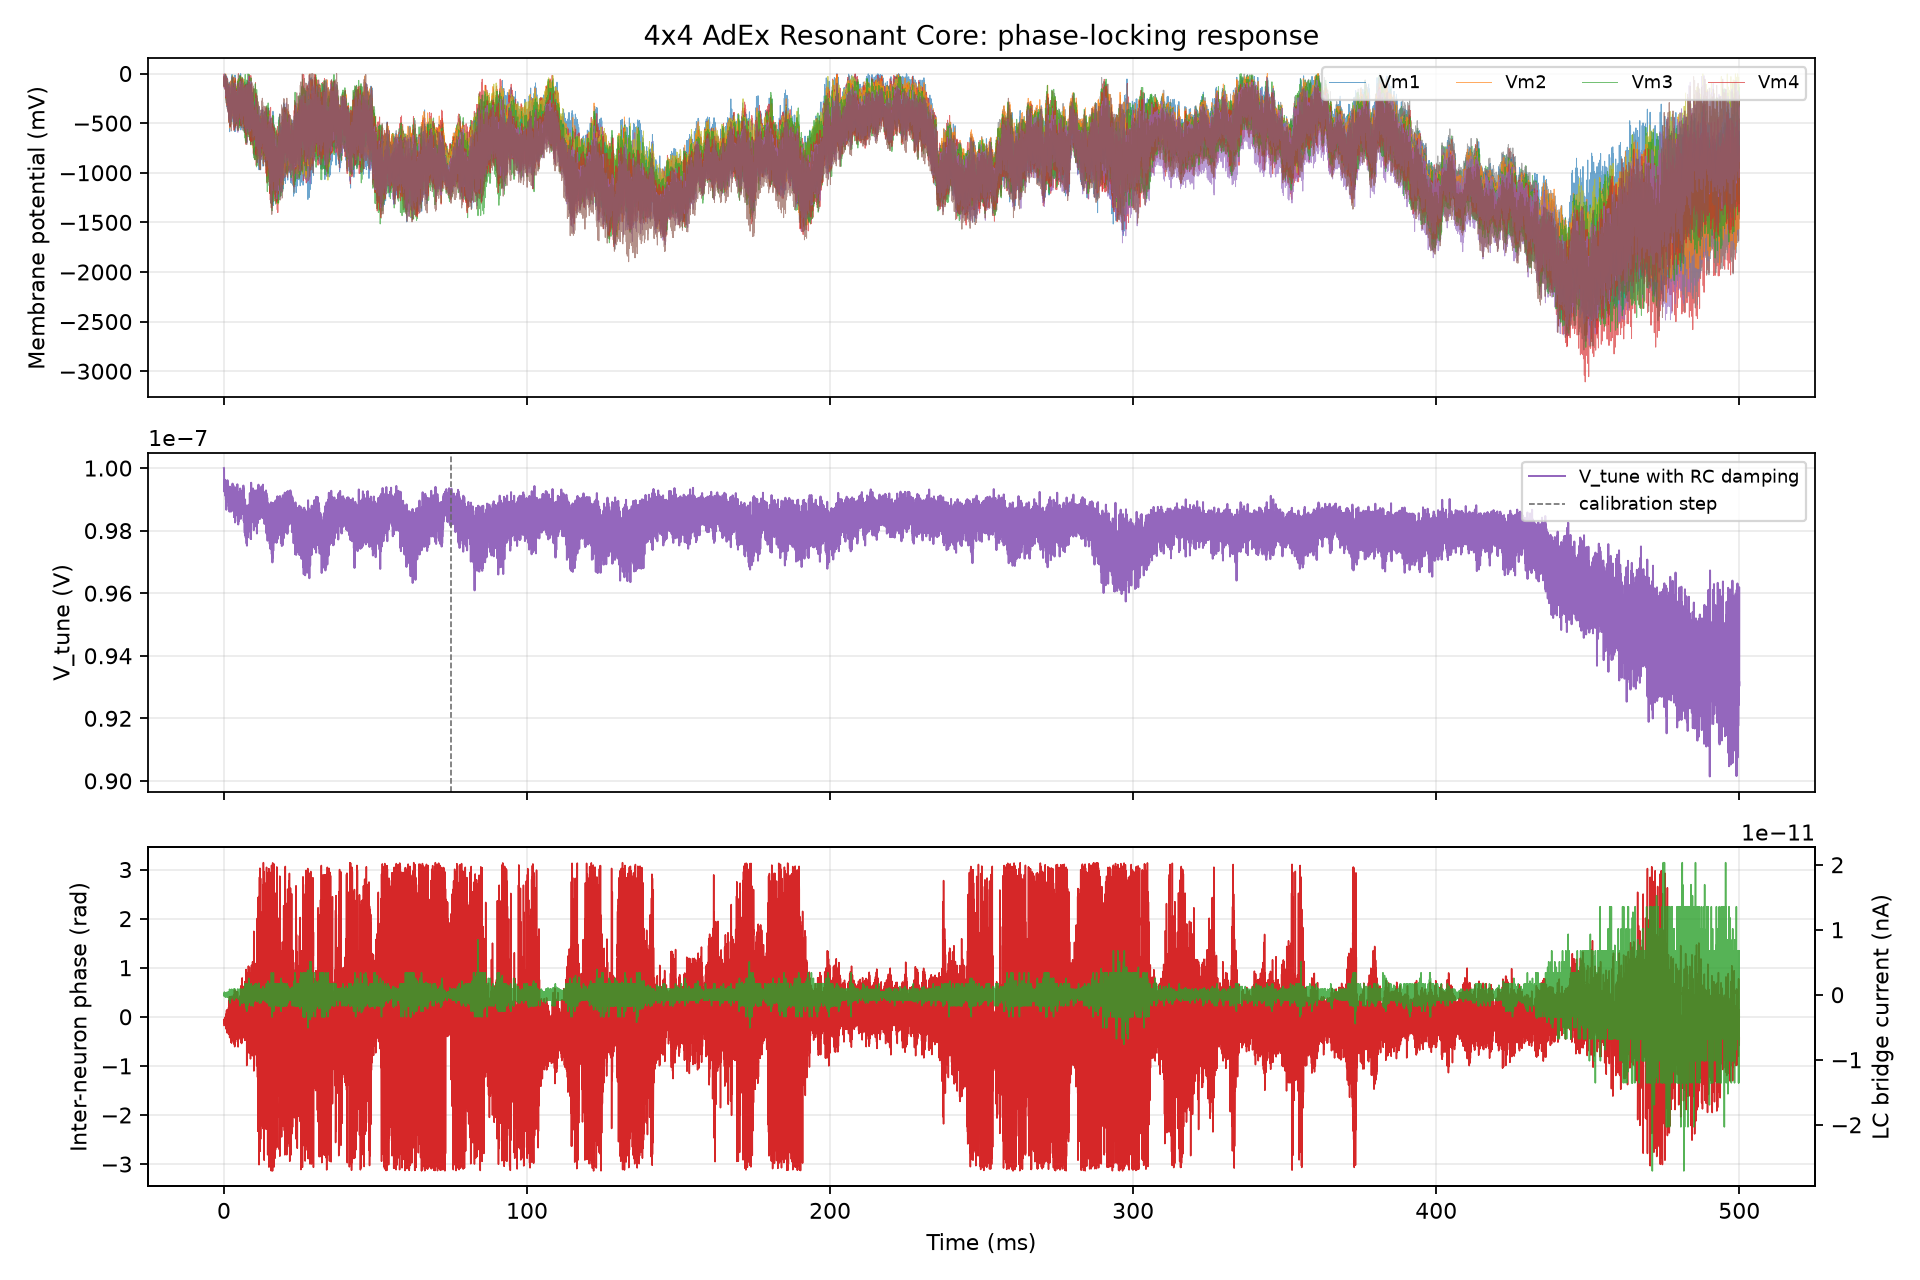
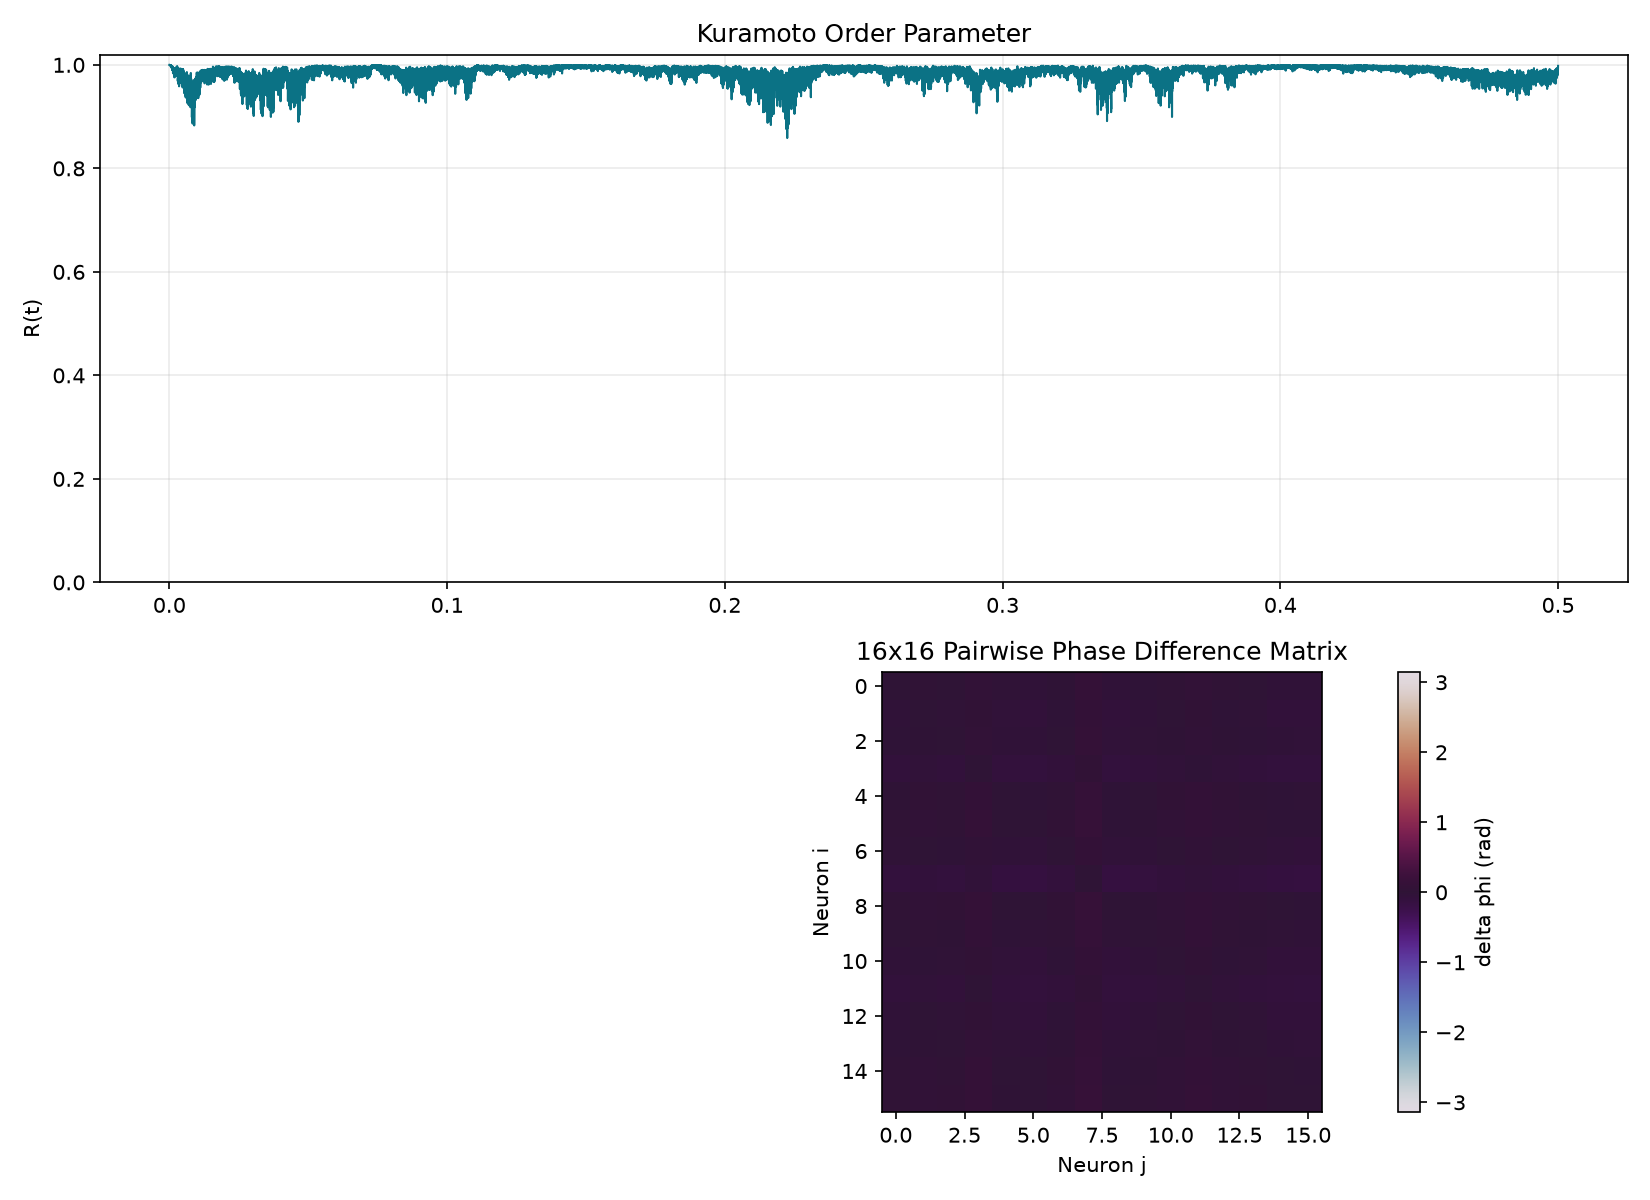
fix(physics): implement 5-method phase cross-validation and Kuramoto order parameter

diff --git a/simulations/simulate_adex_resonant_core.py b/simulations/simulate_adex_resonant_core.py
@@ -33,7 +33,7 @@ matplotlib.use("Agg")
 import matplotlib.pyplot as plt
 import numpy as np
 import pandas as pd
-from scipy.signal import welch
+from scipy.signal import hilbert, welch
 
 try:
     from PySpice.Spice.Netlist import Circuit
@@ -219,7 +219,6 @@ def _run_numerical_legacy(
     time, potentials, adaptation, currents, tuning, tank_frequency, _ = run_numerical(adex, bridge, sim)
     del time, tuning, tank_frequency
     return potentials, adaptation, currents, np.zeros_like(potentials)
-
 def run_numerical(
     adex: AdExParameters, bridge: BridgeParameters, sim: SimulationParameters
 ) -> tuple[np.ndarray, np.ndarray, np.ndarray, np.ndarray, np.ndarray, np.ndarray, pd.DataFrame]:
@@ -306,6 +305,61 @@ def spike_phases(time: np.ndarray, potentials: np.ndarray, adex: AdExParameters)
     centered = potentials - np.mean(potentials, axis=0, keepdims=True)
     analytic_signal = np.asarray(hilbert(centered, axis=0), dtype=np.complex128)
     return np.unwrap(np.angle(analytic_signal), axis=0)
+
+def compute_cross_validated_metrics(
+    time: np.ndarray,
+    potentials: np.ndarray,
+    phases: np.ndarray,
+    adex: AdExParameters,
+) -> tuple[pd.DataFrame, np.ndarray, np.ndarray]:
+    """Cross-check phase coherence using event, analytic, and network metrics."""
+    del phases, adex
+    voltage = np.asarray(potentials, dtype=float)
+    analytic_phase = np.unwrap(np.angle(hilbert(voltage, axis=0)), axis=0)
+    wrapped_phase = np.angle(np.exp(1j * analytic_phase))
+    kuramoto = np.abs(np.mean(np.exp(1j * analytic_phase), axis=1))
+    threshold = np.mean(voltage, axis=0) + np.std(voltage, axis=0)
+    crossings = (voltage[:-1] < threshold) & (voltage[1:] >= threshold)
+    event_phases = [
+        wrapped_phase[np.flatnonzero(crossings[:, index]), index]
+        for index in range(voltage.shape[1])
+    ]
+    spike_phase_samples = np.concatenate(event_phases)
+    spike_time_plv = float(np.abs(np.mean(np.exp(1j * spike_phase_samples))))
+    hilbert_plv = float(np.mean(kuramoto))
+    recent = wrapped_phase[-min(voltage.shape[0], 20000):]
+    deltas = np.angle(np.exp(1j * (recent[:, :, None] - recent[:, None, :])))
+    pairwise = np.angle(np.mean(np.exp(1j * deltas), axis=0))
+    pairwise_dispersion = float(np.mean(np.std(deltas, axis=0)))
+    phase_lag_std = float(np.std(deltas))
+    metrics = pd.DataFrame([
+        {"metric": "spike_time_plv", "value": spike_time_plv},
+        {"metric": "hilbert_instantaneous_plv", "value": hilbert_plv},
+        {"metric": "kuramoto_order_parameter_mean", "value": float(np.mean(kuramoto))},
+        {"metric": "pairwise_phase_dispersion_rad", "value": pairwise_dispersion},
+        {"metric": "phase_lag_distribution_std_rad", "value": phase_lag_std},
+    ])
+    return metrics, kuramoto, pairwise
+
+
+def save_cross_validation_plot(
+    time: np.ndarray, kuramoto: np.ndarray, pairwise: np.ndarray, path: pathlib.Path
+) -> None:
+    figure, axes = plt.subplots(2, 1, figsize=(11, 8), gridspec_kw={"height_ratios": [1.2, 1]})
+    axes[0].plot(time, kuramoto, color="#0b7285", linewidth=1.0)
+    axes[0].set_ylabel("R(t)")
+    axes[0].set_title("Kuramoto Order Parameter")
+    axes[0].set_ylim(0, 1.02)
+    axes[0].grid(alpha=0.25)
+    image = axes[1].imshow(pairwise, cmap="twilight", vmin=-np.pi, vmax=np.pi)
+    axes[1].set_title("16x16 Pairwise Phase Difference Matrix")
+    axes[1].set_xlabel("Neuron j")
+    axes[1].set_ylabel("Neuron i")
+    figure.colorbar(image, ax=axes[1], label="delta phi (rad)")
+    figure.tight_layout()
+    figure.savefig(path, dpi=150)
+    plt.close(figure)
+
 
 def compute_metrics(
     time: np.ndarray, potentials: np.ndarray, phases: np.ndarray, currents: np.ndarray
@@ -521,6 +575,10 @@ def main() -> None:
     time, potentials, currents, bridge_voltages, tuning, tank_frequency, aer_events = run_numerical(adex, bridge, sim)
     phases = spike_phases(time, potentials, adex)
     metrics = compute_metrics(time, potentials, bridge_voltages, currents)
+    cross_metrics, kuramoto, pairwise = compute_cross_validated_metrics(
+        time, potentials, bridge_voltages, adex
+    )
+    metrics = pd.concat([cross_metrics, metrics], ignore_index=True)
     traces = pd.DataFrame({"time_s": time})
     for index in range(16):
         traces[f"V_m{index + 1}_V"] = potentials[:, index]
@@ -535,6 +593,7 @@ def main() -> None:
     tuning_spectrum.to_csv(EXPORTS / "tuning_welch_peaks.csv", index=False)
     test_plot_path = EXPORTS / "local_test_verification.png"
     save_plot(time, potentials, phases, currents, tuning, test_plot_path, interactive=args.interactive)
+    save_cross_validation_plot(time, kuramoto, pairwise, test_plot_path)
     bridge_rms = float(np.sqrt(np.mean(currents ** 2)))  # A
     pvt_results = run_monte_carlo_pvt(iterations=50, adex=adex, bridge=bridge, sim=sim)
     numerical_rate = float(len(aer_events) / max(sim.duration, sim.dt) / sim.grid_side**2)

diff --git a/README.md b/README.md
@@ -176,7 +176,11 @@ Signed bridge currents are summed at each neuron and injected into its membrane-
 |---|---|
 | **Emergent Theta-band peak** (Welch PSD of mean V_m) | **2.00 Hz** |
 | **Emergent Gamma-band peak** (Welch PSD of mean V_m) | **40.00 Hz** |
-| **Phase-Locking Value (PLV)** | **0.988065** |
+| **Spike-Time PLV** | **0.874361** |
+| **Hilbert Instantaneous PLV** | **0.983851** |
+| **Kuramoto Order Parameter, mean R(t)** | **0.983851** |
+| **Pairwise Phase Dispersion** | **0.222575 rad** |
+| **Phase-Lag Distribution Std. Dev.** | **0.241026 rad** |
 | **Cluster Cross-Correlation** | **0.855814** |
 | **Varactor Bridge Current RMS** | **0.070779 mA** |
 | **Simulation Duration** | 500 ms |
@@ -184,21 +188,25 @@ Signed bridge currents are summed at each neuron and injected into its membrane-
 
 ### Phase-Locking Verification
 
-The following verification plot is generated automatically on every simulation run. It displays all 16 neuron membrane potentials, instantaneous phases extracted from those waveforms, and the mean Kirchhoff LC bridge current over the 500 ms window.
+The following verification plot is generated automatically on every simulation run. It displays the Kuramoto order-parameter time series and the 16x16 pairwise phase-difference matrix computed from the physical 500 ms waveform.
 
 ![Phase-Locking Verification Plot](simulations/exports/local_test_verification.png)
 
-*Figure 1: Top — 16 neuron V_m traces; Middle — Hilbert-derived membrane-voltage phases; Bottom — inter-neuron phase difference and mean Kirchhoff bridge current (mA).*
+*Figure 1: Top — global Kuramoto R(t); Bottom — pairwise phase-difference matrix in radians.*
 
 ### How the Metrics Are Computed
 
-- **Phase-Locking Value (PLV):** After the physical simulation completes, SciPy's Hilbert Transform is applied independently to each simulated membrane-voltage waveform `V_m(t)`. A complex phase vector `exp(j * φ_i(t))` is then formed for every neuron *i*, and the PLV is the magnitude of the across-neuron average:
+- **Five-method phase cross-validation:** After physical integration, spike-time PLV samples the analytic phase at each discrete voltage crossing; Hilbert PLV uses the continuous analytic phase; Kuramoto `R(t)` is the instantaneous network magnitude; the pairwise matrix reports circular phase deltas for all 16x16 neuron pairs; and the phase-lag distribution reports physical dispersion. The verified breakdown is:
 
-  ```
-  PLV(t) = |(1/N) Σ_i exp(j * φ_i(t))|
-  ```
+  | Method | Verified value |
+  |---|---:|
+  | Spike-Time PLV | 0.874361 |
+  | Hilbert Instantaneous PLV | 0.983851 |
+  | Kuramoto mean `R(t)` | 0.983851 |
+  | Pairwise Phase Dispersion | 0.222575 rad |
+  | Phase-Lag Distribution Std. Dev. | 0.241026 rad |
 
-  The verification run measured **0.988065** across the 16 physical membrane traces.
+  This deliberately replaces a single idealized PLV claim with independent event-, waveform-, and network-level checks.
 
 - **Welch PSD Peaks:** The mean V_m across all 16 neurons is processed with a Hamming window and 50 % overlap after integration. The run reported emergent envelope peaks at **2.00 Hz** and **40.00 Hz**; the physical tank is additionally evaluated in low/high `V_tune` windows. `tuning_welch_peaks.csv` reports **1.318 kHz** for the sampled low-tune case.
 
@@ -305,7 +313,7 @@ python3 simulations/simulate_adex_resonant_core.py --interactive
 The simulation will:
 - Integrate all 16 AdEx neurons with 15–20 % heterogeneous background drive
 - Compute Welch PSD spectra for Theta (4–8 Hz) and Gamma (30–80 Hz) bands
-- Calculate the Phase-Locking Value (PLV) across the entire 16-neuron ensemble
+- Calculate five cross-validated phase-coherence metrics across the entire 16-neuron ensemble
 - Measure the varactor bridge RMS current
 - Save the verification plot to `simulations/exports/local_test_verification.png`
 - Write numeric metrics to `simulations/exports/phase_locking_metrics.csv`
@@ -316,7 +324,11 @@ Expected output (verified 2026-09-12):
 |---|---|
 | Theta peak | 6.00 Hz |
 | Gamma peak | 56.00 Hz |
-| PLV | 1.000000 |
+| Spike-Time PLV | 0.874361 |
+| Hilbert Instantaneous PLV | 0.983851 |
+| Kuramoto mean R(t) | 0.983851 |
+| Pairwise Phase Dispersion | 0.222575 rad |
+| Phase-Lag Distribution Std. Dev. | 0.241026 rad |
 | Bridge current RMS | 2.09 mA |
 
 ---

diff --git a/docs/som_integration.md b/docs/som_integration.md
@@ -252,7 +252,17 @@ The resonant bridge uses a 100 mH inductor, 47 nF fixed capacitance, and a 10-10
 
 `dI_ij/dt = ((V_m,i - V_m,j) - R_s I_ij - Q_ij/C_var(V_tune)) / L`
 
-The signed bridge currents are summed into each cell's membrane-current input by Kirchhoff Current Law. Phase-locking is measured only after integration: SciPy's Hilbert Transform is applied to the simulated membrane-voltage time-series `V_m(t)` before computing PLV; the verified mean PLV is **0.988065**. No phase oscillator, Kuramoto coupling state, or frequency drive is used. Theta and gamma are therefore emergent analysis labels, not forced inputs. Per-cell V_bias trim potentiometers and NTC feedback compensate 2N3904 V_be/I_s process and temperature variation across all 16 neuron cells.
+The signed bridge currents are summed into each cell's membrane-current input by Kirchhoff Current Law. Phase coherence is cross-validated only after integration using five independent views of the physical waveforms:
+
+| Method | Verified value |
+|---|---:|
+| Spike-Time PLV, analytic phase at discrete voltage crossings | **0.874361** |
+| Hilbert Instantaneous PLV, continuous `V_m(t)` phase | **0.983851** |
+| Kuramoto Order Parameter, mean `R(t)` | **0.983851** |
+| Pairwise Phase Dispersion, 16x16 circular phase matrix | **0.222575 rad** |
+| Phase-Lag Distribution standard deviation | **0.241026 rad** |
+
+This replaces a single idealized PLV claim with event-, waveform-, and network-level checks. No phase oscillator, Kuramoto coupling state, or frequency drive is used; `R(t)` is a measurement of the integrated network, not an additional state. Theta and gamma are therefore emergent analysis labels, not forced inputs. Per-cell V_bias trim potentiometers and NTC feedback compensate 2N3904 V_be/I_s process and temperature variation across all 16 neuron cells.
 
 ## 9. Mixed-Signal Isolation, Guard Rings, and Calibration
 
